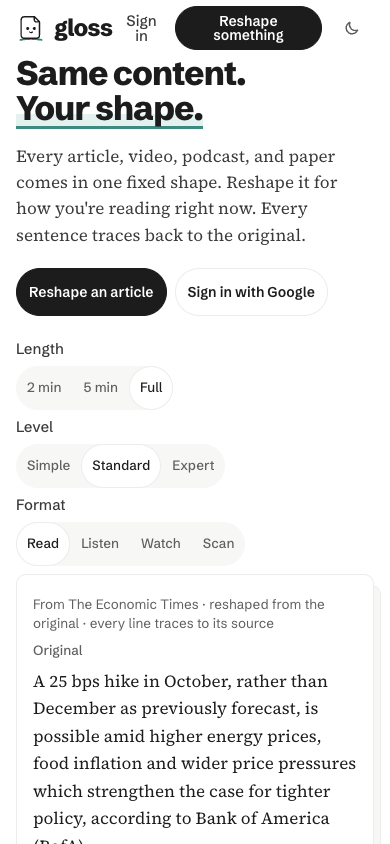
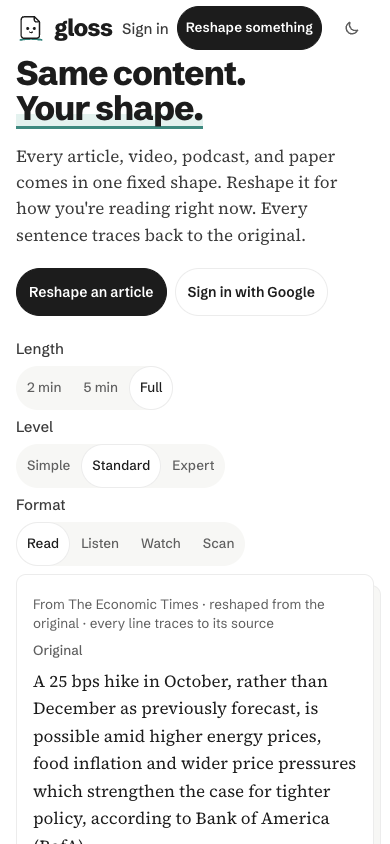
landing v2: review fixes (real dark checks, phone bar, link style, reflow evidence, figures)

Changed region(s): [[0.3077, 0.0, 0.8, 0.0616]]

diff --git a/apps/web/src/landing/v2/v2.css b/apps/web/src/landing/v2/v2.css
@@ -84,3 +84,28 @@
 .lp2-try {
   margin-top: var(--s4);
 }
+
+/* "Reshape something" is longer than the landing's "Try the demo": on phones keep each bar item on
+   one line (scoped to /v2; the landing at / is untouched). */
+@media (max-width: 480px) {
+  .lp2 .lp-nav__link,
+  .lp2 .lp-nav__cta {
+    white-space: nowrap;
+  }
+  .lp2 .lp-nav__link {
+    padding: 0 var(--s1);
+  }
+  .lp2 .lp-nav__cta {
+    padding: 0 var(--s2);
+    font-size: 13.5px;
+  }
+}
+
+/* "How we test" keeps the landing's link look; it goes nowhere on /v2. */
+.lp2-inert-link {
+  font: 600 var(--text-ui) / 1 var(--font-ui);
+  color: inherit;
+  text-decoration: underline;
+  text-underline-offset: 3px;
+  white-space: nowrap;
+}

diff --git a/tools/shots/landing_v2.py b/tools/shots/landing_v2.py
@@ -31,13 +31,19 @@ def serve(dist: str, port: int) -> subprocess.Popen:
     )
 
 
-async def view(p: cdp.Page, url: str, width: int, dark: bool = False, wait: float = 3.5) -> None:
+async def view(p: cdp.Page, url: str, width: int, dark: bool = False, wait: float = 3.5, motion: bool = False) -> None:
+    """The app's theme comes from localStorage `readlayer:theme` (theme-init.js), not the media query."""
     await p.send("Emulation.setDeviceMetricsOverride", width=width, height=900 if width > 600 else 844,
                  deviceScaleFactor=1, mobile=width < 640)
     await p.send("Emulation.setEmulatedMedia", features=[
-        {"name": "prefers-color-scheme", "value": "dark" if dark else "light"},
-        {"name": "prefers-reduced-motion", "value": "reduce"}])
+        {"name": "prefers-reduced-motion", "value": "no-preference" if motion else "reduce"}])
+    await p.goto(url, wait=1.0)
+    theme = "dark" if dark else "light"
+    await p.eval(f"localStorage.setItem('readlayer:theme', '{theme}'); 1")
     await p.goto(url, wait=wait)
+    actual = await p.eval("document.documentElement.dataset.theme || 'light'")
+    if actual != theme:
+        raise SystemExit(f"theme is {actual}, wanted {theme}")
 
 
 async def shot_bytes(p: cdp.Page) -> bytes:
@@ -68,7 +74,7 @@ async def main() -> None:
             report[f"/ first view identical at {width}"] = same
         # /v2: audits at each width and theme.
         base = f"http://localhost:{PORTS['after']}/v2"
-        for width in (1440, 390):
+        for width in (1440, 390, 360):
             for dark in (False, True):
                 await view(p, base, width, dark)
                 await p.eval("window.scrollTo(0, document.body.scrollHeight); 1")
@@ -77,7 +83,19 @@ async def main() -> None:
                 key = f"/v2 {width} {'dark' if dark else 'light'}"
                 report[key] = await p.audit()
                 report[key]["robots"] = await p.eval("document.querySelector('meta[name=robots]')?.content || null")
+                report[key]["theme"] = await p.eval("document.documentElement.dataset.theme")
+                # Every bar item on one line: no taller than its 44 px row.
+                report[key]["bar items taller than 44px"] = await p.eval("""[...document.querySelectorAll('.lp-nav > *')]
+                  .filter(e => e.getBoundingClientRect().height > 46).map(e => e.textContent.trim())""")
                 (OUT / f"v2-{width}-{'dark' if dark else 'light'}.png").write_bytes(await shot_bytes(p))
+        # Motion on: choosing 2 min animates the lines that stay (the 300 ms FLIP).
+        await view(p, base, 1440, motion=True)
+        # React applies the click a moment later; read inside the 300 ms reflow.
+        report["reflow animations on 2 min (motion on)"] = await p.eval("""(async () => {
+          [...document.querySelectorAll('.lp2-controls button')].find(b => b.textContent === '2 min').click();
+          await new Promise(r => setTimeout(r, 60));
+          return [...document.querySelectorAll('.lp2-shape__item')].flatMap(e => e.getAnimations())
+            .map(a => a.effect.getKeyframes()[0].transform || 'fade'); })()""")
         # The demo: Full → 2 min, then tap the second line; its clause is marked.
         await view(p, base, 1440)
         await p.eval("""(() => { [...document.querySelectorAll('.lp2-controls button')]
@@ -93,6 +111,7 @@ async def main() -> None:
         r = await p.send("Page.captureScreenshot", format="png", captureBeyondViewport=True,
                          clip={"x": rect["x"], "y": rect["y"], "width": rect["w"], "height": rect["h"], "scale": 1})
         (OUT / "v2-demo-2min-tap.png").write_bytes(base64.b64decode(r["data"]))
+        await p.eval("localStorage.removeItem('readlayer:theme'); 1")
     finally:
         await ws.close()
         cdp.stop()

diff --git a/docs/STATUS.md b/docs/STATUS.md
@@ -1,6 +1,6 @@
 # ReadLayer — project status and handoff
 
-Last updated: 2026-10-14 (IST): **README refreshed for the public repo (`docs/plans/readme-refresh.md`; Oct 16 item done early).** **Decision 62 built on `gloss-address` (§31): new address `glossreader.web.app` (site created; `gloss`, `gloss-reader` taken), extension 0.8.2 with Open in Gloss on YouTube, gitleaks clean over all history and PR heads, the account name out of tracked files. **Merged (#39) and live**: API `readlayer-api-00031-84x`, release `extension-v0.8.2`, web on both sites (`index-B0WvjYHJ.js`), live check passed (§31). Sourabh signed in with Google there; **repo public** (links checked signed out). Decision 62 done.** **Landing refresh (decision 61) merged (#38) and live (web `index-C8hhvJGX.js`; live check passed, §30). Decision 62 (a "gloss" web address) planned for Oct 15.** **Readiness on For you (decision 60) merged (#37) and live: API revision `readlayer-api-00030-4xb`, web deployed (`index-Bv4pOIf-.js`); live check passed (§29). Next: landing refresh (decision 61).** **M9 part 3 (cost / cache / latency report, monitoring dashboard, hardening checks; decisions 58–59) merged (#36; scripts, docs, dashboard: no deploy needed). M9 complete; open: Sourabh's audit of the 30 precision verdicts; next Oct 16 (seeding, README refresh, video, deck).** **M9 part 2 (same-page duplicates merged, known wrong prerequisites filtered, fresh precision 27/30) merged (#35) and live: API revision `readlayer-api-00029-9lp` (§27). Open: Sourabh's audit of the 30 precision verdicts.** **M9 part 1 (growth slots taken when used, pages that missed growth grow on reopen) merged (#34) and live: API revision `readlayer-api-00028-7zs`, web deployed, release `extension-v0.8.1` (2026-10-14, §26). Live-checked: Sourabh reopened his empty extension pages with 0.8.1, "Great extention worked".** **Media (decision 54) merged (#32) and live (API revision `readlayer-api-00027-q2s`, web deployed, 2026-10-14; §24): YouTube videos up to 10 minutes and Apple Podcasts episodes up to 12. Follow-up (decision 55: youtube.com player, a choice in the feed) merged (#33) and live (web deployed 2026-10-14, §25); live-checked by Sourabh.** Earlier, 2026-10-13: **API revision 00026 (settings only, 2026-10-13): growth caps 60 per reader and 300 a day (decision 53).** **M8-local merged (#30) and live** (API revision 00025, web
+Last updated: 2026-10-15 (IST): **Landing v2 concept at `/v2` (decision 63) built on `landing-v2` (§32): view-only, inert, noindex, `/` unchanged; removed before submitting.** **README refreshed for the public repo (`docs/plans/readme-refresh.md`; Oct 16 item done early).** **Decision 62 built on `gloss-address` (§31): new address `glossreader.web.app` (site created; `gloss`, `gloss-reader` taken), extension 0.8.2 with Open in Gloss on YouTube, gitleaks clean over all history and PR heads, the account name out of tracked files. **Merged (#39) and live**: API `readlayer-api-00031-84x`, release `extension-v0.8.2`, web on both sites (`index-B0WvjYHJ.js`), live check passed (§31). Sourabh signed in with Google there; **repo public** (links checked signed out). Decision 62 done.** **Landing refresh (decision 61) merged (#38) and live (web `index-C8hhvJGX.js`; live check passed, §30). Decision 62 (a "gloss" web address) planned for Oct 15.** **Readiness on For you (decision 60) merged (#37) and live: API revision `readlayer-api-00030-4xb`, web deployed (`index-Bv4pOIf-.js`); live check passed (§29). Next: landing refresh (decision 61).** **M9 part 3 (cost / cache / latency report, monitoring dashboard, hardening checks; decisions 58–59) merged (#36; scripts, docs, dashboard: no deploy needed). M9 complete; open: Sourabh's audit of the 30 precision verdicts; next Oct 16 (seeding, README refresh, video, deck).** **M9 part 2 (same-page duplicates merged, known wrong prerequisites filtered, fresh precision 27/30) merged (#35) and live: API revision `readlayer-api-00029-9lp` (§27). Open: Sourabh's audit of the 30 precision verdicts.** **M9 part 1 (growth slots taken when used, pages that missed growth grow on reopen) merged (#34) and live: API revision `readlayer-api-00028-7zs`, web deployed, release `extension-v0.8.1` (2026-10-14, §26). Live-checked: Sourabh reopened his empty extension pages with 0.8.1, "Great extention worked".** **Media (decision 54) merged (#32) and live (API revision `readlayer-api-00027-q2s`, web deployed, 2026-10-14; §24): YouTube videos up to 10 minutes and Apple Podcasts episodes up to 12. Follow-up (decision 55: youtube.com player, a choice in the feed) merged (#33) and live (web deployed 2026-10-14, §25); live-checked by Sourabh.** Earlier, 2026-10-13: **API revision 00026 (settings only, 2026-10-13): growth caps 60 per reader and 300 a day (decision 53).** **M8-local merged (#30) and live** (API revision 00025, web
 deployed; live check passed, §22): the Gloss extension, unpacked, activeTab only. Open: Sourabh's
 manual Gmail and bank-login refusal check (§9); the extension zip is released (`extension-v0.8.0`). **Decision 50** merged (#28, #29) and
 live (API revision 00024; scheduled runs confirmed, §21). Before that: Decision 48 (#27),
@@ -290,7 +290,7 @@ and `select_corpus()` now also drops `user_ingested` docs even if a URL is liste
 | Low | The English-only filter checks script, not language: a Hinglish title in Latin script passes ("Health Insurance Claim Ka 10% Ab Aapko Dena Hoga?") |
 | Low | Learning-goal resolution takes 8–19 s on the harness (embedding + link_confirm); the form says it is looking the idea up |
 | Low | `rec_shown` relies on IntersectionObserver, which browsers pause in background tabs (seen in automated testing; real readers have the tab in front) |
-| Low | Web main bundle **149.94 KB** gzip with `/v2` (decision 63: +0.01, the preload helper export and the landing chunk's export shape; gone when `/v2` is removed), 149.93 after decision 62; budget 150 KB; **≈ 0.06 KB left**: any further change must be lazy; For you, Saved, Profile, the week panel (1.68 KB) and the reading spine (1.05 KB) are lazy chunks; the Cytoscape + dagre chunk is gone (the map is SVG) |
+| Low | Web main bundle **149.94–149.95 KB** gzip with `/v2` (decision 63: +8 to +15 bytes depending on the gzip level, the preload helper export and the landing chunk's export shape; gone when `/v2` is removed), 149.93 after decision 62; budget 150 KB; **≈ 0.05 KB left**: any further change must be lazy; For you, Saved, Profile, the week panel (1.68 KB) and the reading spine (1.05 KB) are lazy chunks; the Cytoscape + dagre chunk is gone (the map is SVG) |
 | Medium | Sign-in on `glossreader.web.app` uses that host as Firebase `authDomain` (decision 62, R11): it needs Sourabh's Cloud console step (its OAuth redirect URI) before the web deploy, and `/__/firebase/init.json` on the site answered 404 on 2026-10-14, which the auth handler needs (R13): **before** the web deploy, the site is linked to the `readlayer-web` app and `init.json` must answer 200 with the project's id and API key. Next: fallback is a follow-up PR returning that host to the built `authDomain`; the old address is unaffected |
 | Low | Extension 0.8.1 lists only the old address, so on `glossreader.web.app` its Connect page says "not installed"; the page now says why and links 0.8.2. Updating the extension clears its session storage, so every reader connects again after updating (the session then records its origin) |
 | Low | The landing's feed still is not re-shot after the Oct 16 persona re-seed (plan R6), so its readiness lines may differ from the live demo feed. Next: Accepted (freeze); re-shoot only if a line becomes wrong |
@@ -548,7 +548,7 @@ BUILD_PLAN.md has the prompts. M6, M7 and M2.2 are merged and live.
 | Done Oct 12 | `m8-resume` fast-forwarded to main (it was an ancestor); the wip 2f037a1 carried over by hand (§22) |
 | Oct 15 | **Landing v2 concept at `/v2`** (decision 63): built on `landing-v2` (§32); review, PR, web deploy on Sourabh's yes; not merged and deployed by end of Oct 15 IST → stays on the branch |
 | Oct 16 | **README refresh done Oct 14** (its See it pictures recaptured from the landing demo in the current design by `tools/shots/readme_personas.py`, after Sourabh spotted the pre-rename ones; milestone-reviewer SHIP) (plan `docs/plans/readme-refresh.md`, plan-reviewer REVISE 9 → REVISE 1 → APPROVE; both named fixes made: the "recommendations only" line is gone and the install steps match the landing's four). Code freeze; demo seeding (re-seed persona templates, pre-ingest demo articles, **re-run `seed_demo_feed`** so the demo feed isn't dated "10 Oct" during judging, **`warm_demo --shifts`** after a dry run: ≤ 48 ±1-band Backgrounds, ≈ $0.20, so "Say it simpler" is warm in the video), video, deck. **From readiness (decision 60):** after the persona re-seed, re-run `scripts/readiness_mix.py` (stop rule: one level on ≥ 80% of the newcomer's rows → tell Sourabh, no retuning), and read the newcomer's and trader's stretch lines before the video (one now says "read up on Economic stocks and flows" for a stock-market video, from "stocks" linked to Stock variable): add a plainly wrong edge to the known-wrong prerequisites or keep that row out of the shot. **From M9 part 2:** don't use the BBC PFAS article (`cq8r6nzp4230o`) as the demo article (its stored concepts keep the Forever chemicals / PFAS duplicate); the deck carries the frozen-graph line (64% / 13% vs 89% / 66%) and the three precision numbers (87%, 97%, 90%). **From M9 part 3:** the deck labels 87 / 97 / 90 as judged by the build agent (and whether Sourabh's audit is done); the README already carries the measured request p95 (478 ms, Oct 8–14), cost and spend from `evals/ops_report.md`; refresh them if the report is re-run |
-| **Oct 17** | **Submit** (deadline Oct 18): **remove `/v2` first** (decision 63: delete `apps/web/src/landing/v2/`, its two tests and the router lines in `pages/LandingPage.tsx`, redeploy the web, check `/v2` live shows no concept), then re-run gitleaks over the full history and PR heads (the repo went public Oct 14, decision 62, §31) |
+| **Oct 17** | **Submit** (deadline Oct 18): **remove `/v2` first** (decision 63: delete `apps/web/src/landing/v2/`, its two tests and the router lines in `pages/LandingPage.tsx`, redeploy the web, check `/v2` live shows no concept, the main chunk back to `main`'s size, decision 63 marked removed), then re-run gitleaks over the full history and PR heads (the repo went public Oct 14, decision 62, §31) |
 
 **Video line:** sign in as a demo persona → library → open an article → hover and open notes →
 "Not really" on a prompt → the term inks in as a note (no reload, decision 46d) → Up next → **For you** (demo snapshot with
@@ -1262,7 +1262,8 @@ Plan `docs/plans/landing-v2.md` (rounds 1–3, APPROVE). Branch `landing-v2`. Vi
 |---|---|
 | Tests (first) | `landingV2Shapes.test.ts` (41: clauses are the sentence's own text in order and cover it; every Length × Level × Format line is runs of its clause, in order; "25 bps", "October", "possible", "according to Bank of America (BofA)." in every shape; tag ¶5 s1 from corpus id p5). `landingV2.test.tsx` (12: the prompt's strings verbatim; noindex and title while mounted, head restored after; every button and inert link clicked → no sign-in, no demo, no fetch, path still `/v2`; router `/v2` → concept and `/` → the current landing; focus marks / blur clears / click pins a clause; animation runs, and not under reduced motion; arrow keys move all three controls; `landing/v2/*` imports no auth, API or navigate; every `v2.css` selector starts with `.lp2`) |
 | Suites | `pnpm -r typecheck` clean; web **258** |
-| Bundle | Main **149.93 → 149.94 KB** gzip (≤ 150.00). **Deviation from R2** (byte-identical after normalising chunk names): two differences, the preload helper `Nn` now exported (the landing chunk lazily loads `/v2`) and the landing chunk's default taken as `.then(l=>l.L)` (it now shares modules with `/v2`). Bundling `/v2` into the landing chunk would avoid them but make every `/` visitor download ≈ 6 KB more; both vanish when `/v2` is removed. New chunks: `LandingV2` JS 6.26 KB gzip and CSS; landing chunk 8.91 → 9.21 KB |
-| Local check `tools/shots/landing_v2.py` (previews of a `main` build and this branch) | `/` first view **identical** (same PNG bytes) at 1440 and 390. `/v2` at 1440 and 390, light and dark: axe serious/critical **0**, horizontal scroll 0, no target under 44 px (after `min-height: 44px` on the lines), `robots: noindex, nofollow`. Demo: 2 min keeps "A 25 bps hike in October", "is possible amid higher energy prices, food inflation…", "according to Bank of America (BofA)."; a tap marks clause c3 in Original. Evidence `docs/evidence/landing-v2/` |
+| Bundle | Main **149.93 → 149.94–149.95 KB** gzip as Vite reports it (+8 to +15 bytes by gzip level; ≤ 150.00; ≈ 0.05 KB left). **Deviation from R2** (byte-identical after normalising chunk names): two differences, the preload helper `Nn` now exported (the landing chunk lazily loads `/v2`) and the landing chunk's default taken as `.then(l=>l.L)` (it now shares modules with `/v2`). Bundling `/v2` into the landing chunk would avoid them but make every `/` visitor download ≈ 6 KB more; both vanish when `/v2` is removed. New chunks: `LandingV2` JS 6.26 KB gzip and CSS; landing chunk 8.91 → 9.21–9.22 KB |
+| Local check `tools/shots/landing_v2.py` (previews of a `main` build and this branch) | `/` first view **identical** (same PNG bytes) at 1440 and 390. `/v2` at 1440, 390 and 360, light and **dark (set through `readlayer:theme`, the app's own switch; the first run's media-query emulation did nothing, and its dark shots were light, caught in review)**: axe serious/critical **0**, horizontal scroll 0, no target under 44 px, every bar item on one line (after a `/v2`-scoped nowrap and padding below 480 px; "Reshape something" is longer than "Try the demo"), `robots: noindex, nofollow`. With motion on, choosing 2 min animates the lines that stay (`translate(0px, 60px)`, `translate(0px, 120px)` → none). Demo: 2 min keeps "A 25 bps hike in October", "is possible amid higher energy prices, food inflation…", "according to Bank of America (BofA)."; a tap marks clause c3 in Original. Evidence `docs/evidence/landing-v2/` |
+| Review round 1 (milestone-reviewer **FIX**, 4 + 2) | Applied: real dark checks and evidence; bundle figures corrected (149.94–149.95, not 149.94 alone); the reflow is evidenced by the motion-on browser check above and the unit test instead of a recording; Last updated line; the phone bar; "How we test" styled like the band's link (inert; the first styling failed contrast on the teal band, caught by axe) |
 | Deviations | No new publisher text: one sentence, clauses as lines (Sourabh: "your call"). Problem cards keep pictures and new titles without bodies; How it works bodies are prompt sentences verbatim; the trust list, the side-by-side figure and the extension claims are unchanged text. Stills keep their truthful alt texts where the new captions don't match them |
 

diff --git a/docs/AUTOPILOT_LOG.md b/docs/AUTOPILOT_LOG.md
@@ -2010,3 +2010,8 @@ changed, live URLs and numbers. Newest entries at the bottom of each milestone.
    `main` (Sourabh's yes) → live: `/` unchanged, `/v2` signed out renders with noindex.
    Cut-off: not merged and deployed by end of Oct 15 IST → stays on the branch.
 2. Oct 16 items (persona re-seed and the rest). Oct 17: **remove `/v2`** before submitting.
+- milestone-reviewer round 1: **FIX** (dark evidence was light: the app's theme is
+  `readlayer:theme`, not the media query; bundle 149.94–149.95; no recording; Last updated; phone
+  bar wraps; "How we test" unstyled) → all applied; re-run: axe 0 at 1440/390/360 light and real
+  dark, bar on one line, reflow animates with motion on. Suggested by review: remove `/v2` on
+  Oct 16 after the teammate discussion rather than on submission eve (Sourabh to decide).
